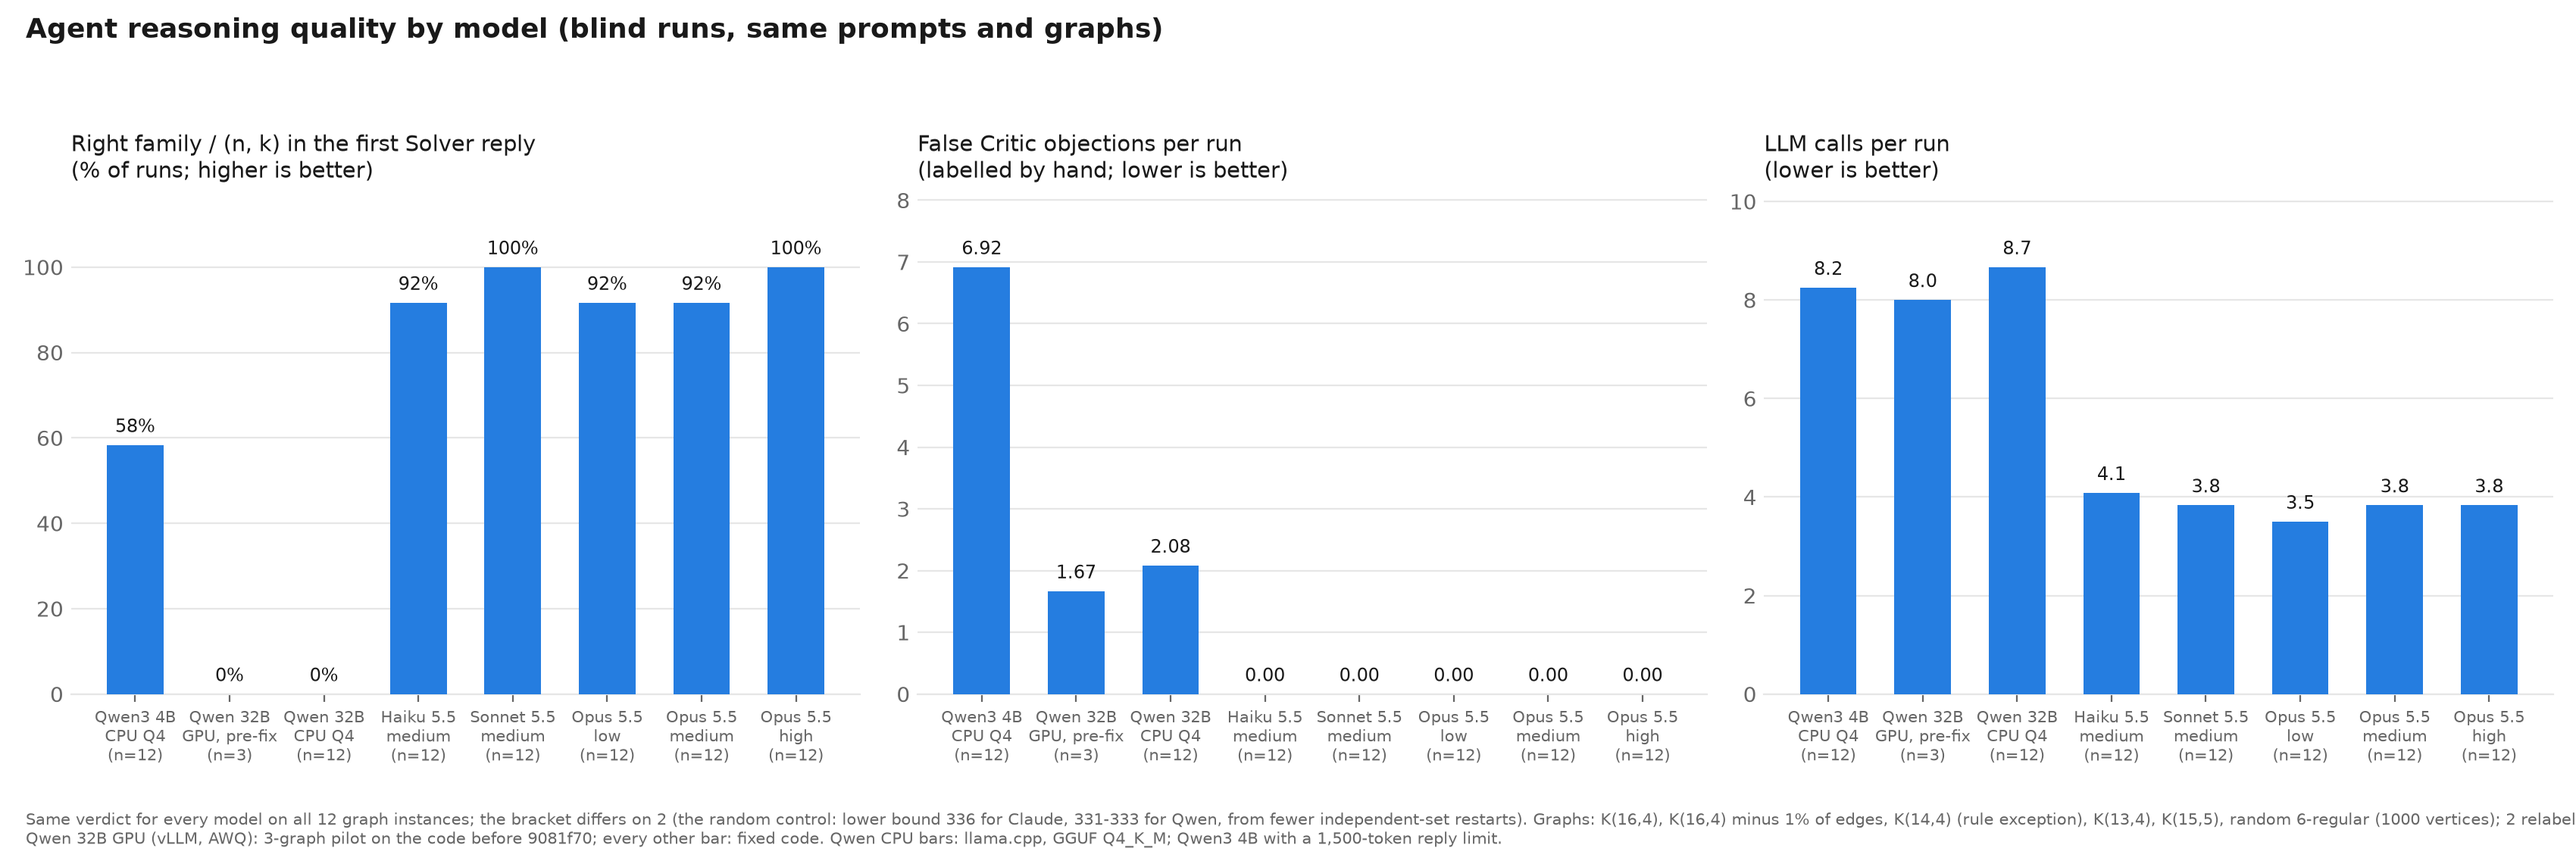
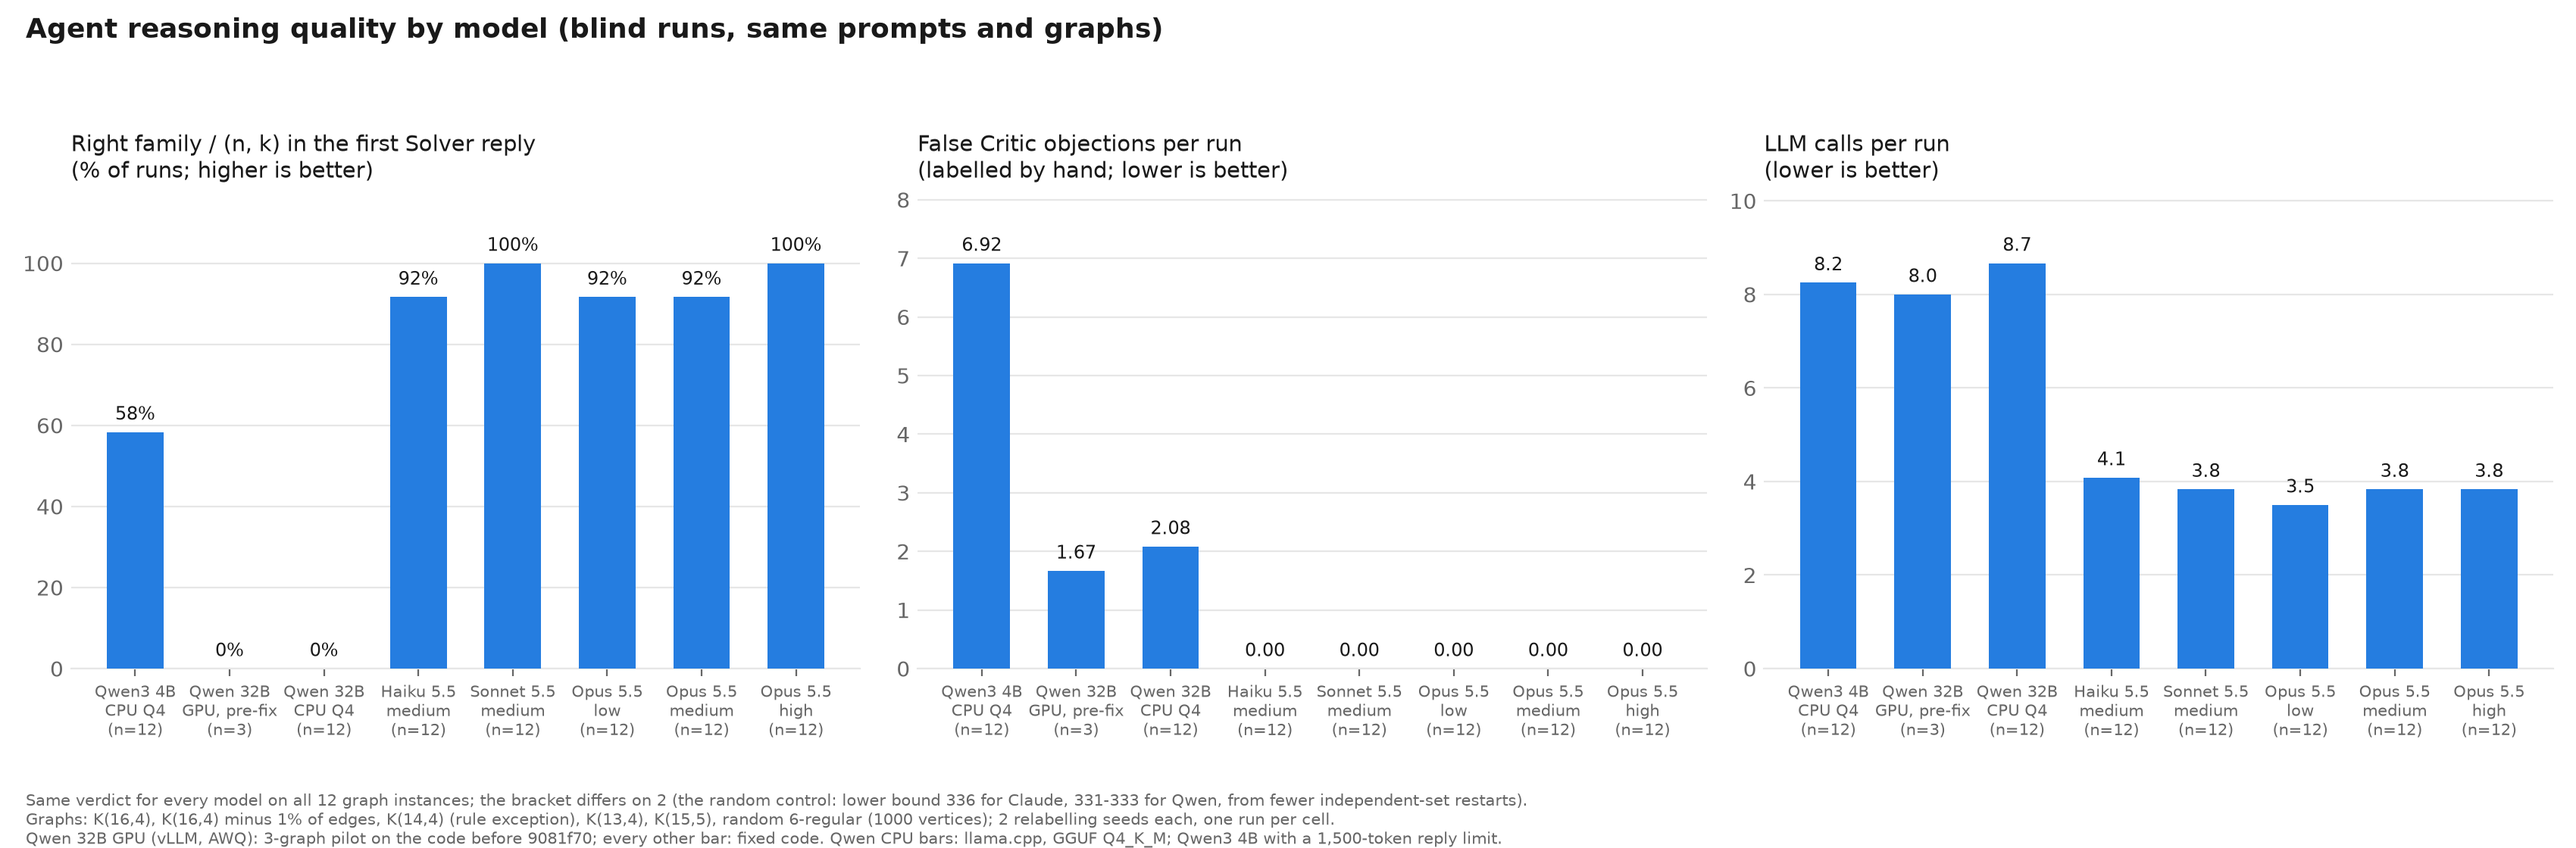
kneser-agent ablation chart: footnote wrapped onto three lines (the first line ran off the image)

diff --git a/kneser-agent/bench/ablation/plot.py b/kneser-agent/bench/ablation/plot.py
@@ -58,10 +58,10 @@ diff = sum(len(v) > 1 for v in brackets.values())
 note = ((f"Final certified bracket identical for every model on all {ng} graph instances. " if same else
          f"Same verdict for every model on all {ng} graph instances; the bracket differs on {diff} (the random control: "
          "lower bound 336 for Claude, 331-333 for Qwen, from fewer independent-set restarts). ")
-        + "Graphs: K(16,4), K(16,4) minus 1% of edges, K(14,4) (rule exception), K(13,4), K(15,5), random 6-regular "
+        + "\nGraphs: K(16,4), K(16,4) minus 1% of edges, K(14,4) (rule exception), K(13,4), K(15,5), random 6-regular "
         "(1000 vertices); 2 relabelling seeds each, one run per cell.\nQwen 32B GPU (vLLM, AWQ): 3-graph pilot on the "
         "code before 9081f70; every other bar: fixed code. Qwen CPU bars: llama.cpp, GGUF Q4_K_M; Qwen3 4B with a 1,500-token reply limit.")
 fig.text(0.01, 0.005, note, color=SUB, fontsize=7.5)
-fig.tight_layout(rect=(0, 0.07, 1, 0.93))
+fig.tight_layout(rect=(0, 0.10, 1, 0.93))
 fig.savefig(HERE / "model_ablation.png", facecolor="white")
 print("wrote", HERE / "model_ablation.png")
